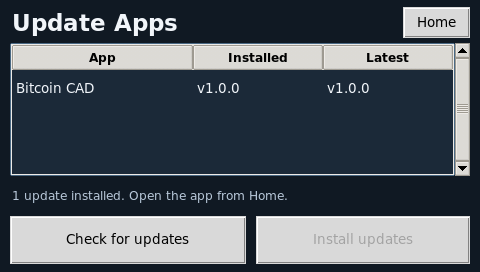
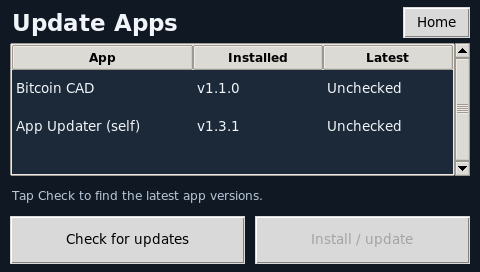
Tidy updater documentation and refresh the device screenshot

diff --git a/README.md b/README.md
@@ -1,82 +1,72 @@
 # Update Apps for PocketCHIP
 
-See [CHANGELOG.md](CHANGELOG.md) for the version history.
+Install and update your PocketCHIP apps from a 480 × 272 touchscreen interface.
+The catalog includes **Bitcoin CAD** and **App Updater (self)**.
 
-Version 1.3.1. Install missing apps and update installed apps from a simple
-480 × 272 touchscreen interface. The catalog includes **App Updater (self)** and **Bitcoin CAD**
-from [PocketChip-Bitcoin-Display](https://github.com/csd113/PocketChip-Bitcoin-Display).
+[Latest release](https://github.com/csd113/Pocketchip-update-apps/releases/latest)
+· [Changelog](CHANGELOG.md)
+· [Bitcoin CAD](https://github.com/csd113/PocketChip-Bitcoin-Display)
 
-## Install with one command
+![Update Apps v1.3.1 running on PocketCHIP](docs/update-apps.png)
 
-Paste this into the PocketCHIP terminal as your normal user (usually `chip`):
+## Install or upgrade
+
+Paste this single command into the PocketCHIP terminal as your normal user
+(usually `chip`), without `sudo`:
 
 ```sh
 sh -c 'set -e; f=$(mktemp); trap '\''rm -f "$f"'\'' EXIT; curl -fsSL https://raw.githubusercontent.com/csd113/Pocketchip-update-apps/main/install.sh -o "$f"; sh "$f"'
 ```
 
-Requires internet, `curl`, Python 3.7+ and PocketHome with an Apps page.
-The installer downloads files from one pinned GitHub revision. It reuses an
-existing app-local Python/Tk runtime, keeping an independent copy for Update
-Apps, or installs `python3-tk` through apt (sudo may ask for your password).
-On older Debian installations, configured apt repositories must still work.
-Run without `sudo` so shortcuts and files belong to your user. Repeating the
-command upgrades Update Apps without duplicating its menu entry.
+The command installs the latest version from `main`. Running it again upgrades
+or reinstalls the updater without duplicating its Home-menu entry.
 
-Restart PocketHome (or reboot) after installing to reload its menu. **Update
-Apps** is added to PocketHome, `~/Desktop`, and the desktop application menu.
+**Requirements:** internet, `curl`, Python 3.7+, and PocketHome with an Apps page.
+The installer reuses an existing app-local Python/Tk runtime, keeping a separate
+copy for the updater, or installs `python3-tk` through apt. The apt fallback
+requires working repositories and may ask for your sudo password.
+
+After a first install, restart PocketHome or reboot to display the new icon.
+The installer also adds desktop and application-menu shortcuts.
+[GitHub Releases](https://github.com/csd113/Pocketchip-update-apps/releases)
+provide versioned source archives; runtime binaries are not included.
 
 ## Use
 
-Open **Update Apps**, tap **Check for updates**, then **Install / update**.
-Missing apps appear as **not installed** and are installed by the same button.
-New Bitcoin installations include the launcher, icon, and Home/desktop shortcuts.
-App Updater (self) identifies the updater in the list and uses the same buttons.
-Self-updates run using code already loaded in memory while replacing the files
-on disk. Tap Home when finished; the next manual launch loads the new version.
-Checking and installing are disabled after a successful self-update.
-Restart PocketHome to see newly added Home icons. If an app is running, a touch-friendly prompt offers **Cancel** or **Close and
-update**. Confirming sends a termination request and waits up to eight seconds
-for the app to stop before installation. Unsaved work may be lost. If it does
-not stop, the update is skipped. Apps are never reopened automatically.
-Home or Escape exits; C checks and I installs. Internet access is required.
+1. Open **Update Apps** from Home.
+2. Tap **Check for updates** to compare installed and latest versions.
+3. Tap **Install / update** to install missing apps and update existing ones.
 
-![Update Apps on PocketCHIP (1.0 interface)](docs/update-apps.png)
+If an app is running, choose **Close and update** or **Cancel**. Confirming may
+lose unsaved work. Installation waits for the app to stop and skips it if it
+does not close within eight seconds. Updated apps stay closed.
 
-The updater checks the latest `main` commit even if the version was not bumped.
-It downloads the pinned Python source, verifies its Git blob checksum and checks
-Python syntax before installing. Existing applications retain their launcher,
-icon and runtime. The previous Python source is backed up as
-`bitcoin.py.before-update`. A receipt keyed by content records unversioned builds.
-New installs validate the Home configuration and file paths before writing,
-back up the menu, and roll back files and shortcuts if installation fails.
-Menu backups use `~/.pocket-home/config.json.before-app-install-*`.
+**App Updater (self)** is this updater. It replaces its files using code already
+loaded in memory. After success, tap **Home**; the next manual launch loads the
+new version. Further checks and installs are disabled until then.
 
-The catalog is explicit: repositories are not automatically discovered and
-repository install scripts are not executed. Bitcoin is currently a standalone
-Python/Tk app; future applications or new dependencies require a corresponding
-catalog and installation recipe. Self-updates download every file in the explicit updater bundle from one commit,
-verify each Git blob checksum, and validate Python syntax before writing. All
-previous files are retained in `~/.local/share/pocket-update-apps/before-self-update-*`.
-Installation errors roll back replaced files; keep the device powered during
-installation. The runtime, receipts, and menu entries stay in place. Rerunning
-the command above can also reinstall or upgrade Update Apps.
+New Bitcoin installations include a launcher, icon, and Home/desktop shortcuts.
+Restart PocketHome to see new Home icons.
 
-## Files and validation
+| Control | Action |
+| --- | --- |
+| Check for updates / C | Check GitHub |
+| Install / update / I | Install available changes |
+| Home / Escape | Close the updater when idle |
 
-- `update_apps.py`: UI, catalog, verified downloads and source updates.
-- `deployment.py`: app and shortcut installation with rollback.
-- `install.sh`, `install.py`: GitHub bootstrap and repeatable updater installer.
-- `launch`, `bitcoin-launch`: runtime-aware launchers.
-- `update-apps.png`, `bitcoin.png`: Home icons.
-- `test_update_apps.py`, `test_deployment.py`, `test_self_update.py`: update and install failure tests.
-- `check_layout.py`: on-device widget bounds checks.
+## Help and development
 
-```sh
-python3 -m unittest discover -s . -v
-python3 -m py_compile update_apps.py deployment.py install.py test_update_apps.py test_deployment.py test_self_update.py
-sh -n install.sh launch bitcoin-launch
-DISPLAY=:0 python3 check_layout.py
-```
+- Missing Tkinter: rerun the installer with internet access and working apt repositories.
+- Missing Home icon after installation: restart PocketHome.
+- An app does not close: its update is skipped; close it and retry.
+- Updater needs repair: rerun the installation command above.
 
-For tests on devices using app-local Tk libraries, export the environment shown
-in `launch` first.
+Downloads are pinned to a GitHub commit and checked before installation.
+Previous sources and self-update files are backed up. Keep the device powered
+during installation. The catalog is explicit; other repositories are not
+installed automatically.
+
+See [update behavior, backup locations, and validation commands](docs/updates.md)
+for technical details. Report problems in
+[GitHub Issues](https://github.com/csd113/Pocketchip-update-apps/issues), including
+the installed version and any error message.

diff --git a/docs/updates.md b/docs/updates.md
@@ -1,0 +1,52 @@
+# Update behavior and development
+
+[Back to the project](../README.md)
+
+The updater checks the latest `main` commit even if the version was not bumped.
+It downloads the pinned Python source, verifies its Git blob checksum and checks
+Python syntax before installing. Existing applications retain their launcher,
+icon and runtime. The previous Python source is backed up as
+`bitcoin.py.before-update`. A receipt keyed by content records unversioned builds.
+New installs validate the Home configuration and file paths before writing,
+back up the menu, and roll back files and shortcuts if installation fails.
+Menu backups use `~/.pocket-home/config.json.before-app-install-*`.
+
+The catalog is explicit: repositories are not automatically discovered and
+repository install scripts are not executed. Bitcoin is currently a standalone
+Python/Tk app; future applications or new dependencies require a corresponding
+catalog and installation recipe. Self-updates download every file in the explicit updater bundle from one commit,
+verify each Git blob checksum, and validate Python syntax before writing. All
+previous files are retained in `~/.local/share/pocket-update-apps/before-self-update-*`.
+Installation errors roll back replaced files; keep the device powered during
+installation. The runtime, receipts, and menu entries stay in place. Rerunning
+the command above can also reinstall or upgrade Update Apps.
+
+## Source files and validation
+
+- `update_apps.py`: UI, catalog, verified downloads and source updates.
+- `deployment.py`: app and shortcut installation with rollback.
+- `install.sh`, `install.py`: GitHub bootstrap and repeatable updater installer.
+- `launch`, `bitcoin-launch`: runtime-aware launchers.
+- `update-apps.png`, `bitcoin.png`: Home icons.
+- `test_update_apps.py`, `test_deployment.py`, `test_self_update.py`: update and install failure tests.
+- `check_layout.py`: on-device widget bounds checks.
+
+```sh
+python3 -m unittest discover -s . -v
+python3 -m py_compile update_apps.py deployment.py install.py test_update_apps.py test_deployment.py test_self_update.py
+sh -n install.sh launch bitcoin-launch
+DISPLAY=:0 python3 check_layout.py
+```
+
+For tests on devices using app-local Tk libraries, export the environment shown
+in `launch` first.
+
+## Making changes
+
+Keep the 480 × 272 interface usable on PocketCHIP and preserve existing app
+paths and PocketHome entries. The download and install lists in `update_apps.py`,
+`install.py`, and `install.sh` must stay compatible. Test update failures, backups,
+and self-updates when changing installation behavior.
+
+For a release, update `VERSION` and the changelog, run the checks above, and
+verify the interface on the device. GitHub release tags use `vMAJOR.MINOR.PATCH`.
